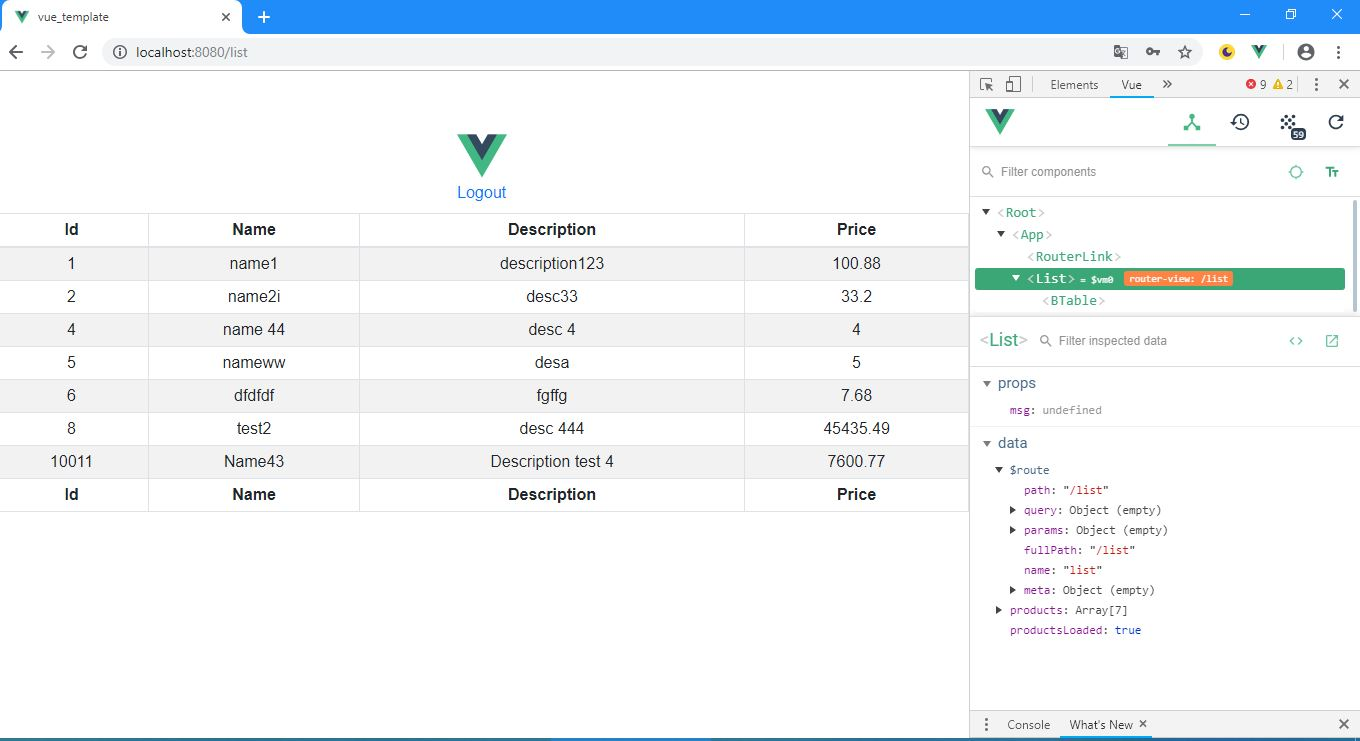
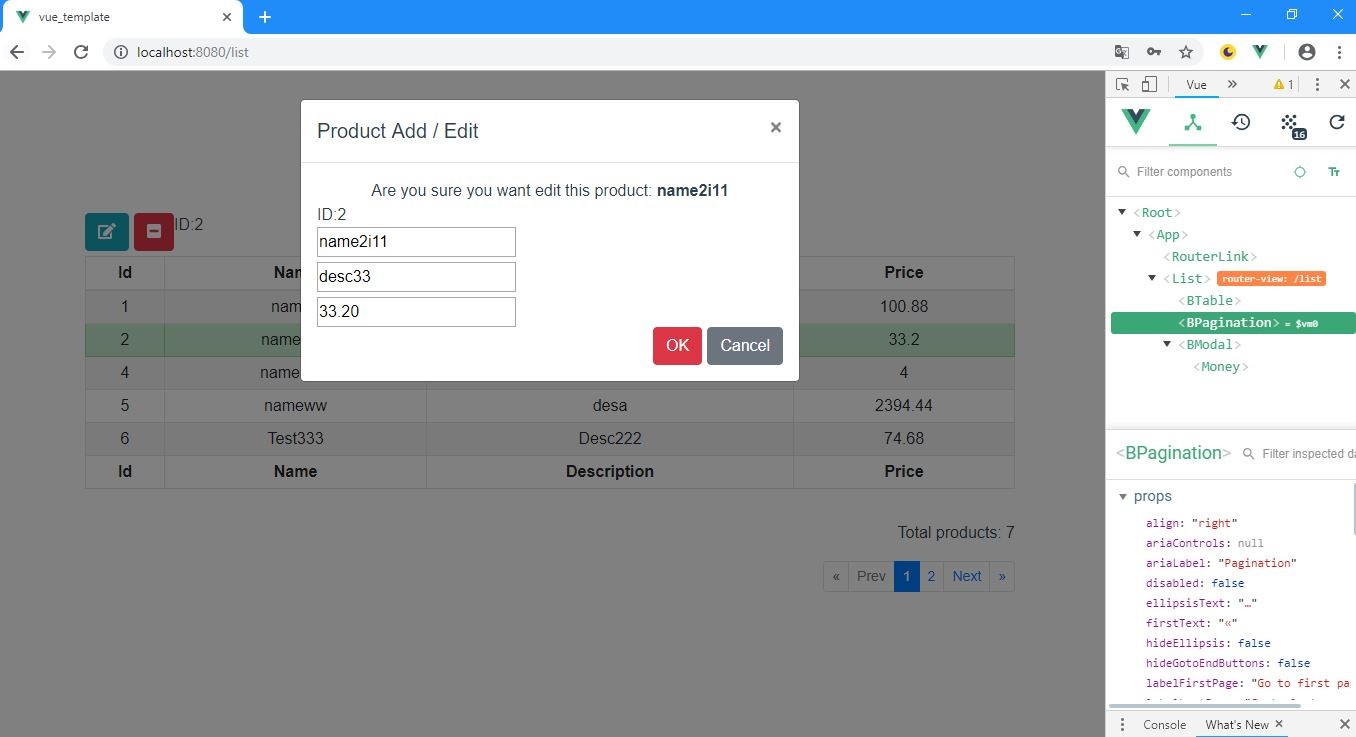
pagination

diff --git a/server.js b/server.js
@@ -63,6 +63,28 @@ app.get("/api/product", function (req, res) {
     executeQuery(res, query);
 });
 
+//POST API Pagination
+app.post("/api/products", function (req, res) {
+    (async function () {
+        try {
+            let pool = await sql.connect(dbConfig)
+            let result = await pool.request()
+                .query("SELECT id, name, description, price FROM [Table_products] ORDER BY id OFFSET ((" + req.body.currentPage + " - 1) * " + req.body.perPage + ") ROWS FETCH NEXT " + req.body.perPage + " ROWS ONLY;")
+
+            res.send(result);
+        } catch (err) {
+            console.log("Error : " + err);
+            res.send(err);
+        }
+    })()
+
+    sql.on('error', err => {
+        // ... error handler
+    })
+
+});
+
+
 //GET API by id
 app.get("/api/product/:id", function (req, res) {
     var query = "SELECT id, name, description, price FROM [Table_products] WHERE id = " + req.params.id + ";";
